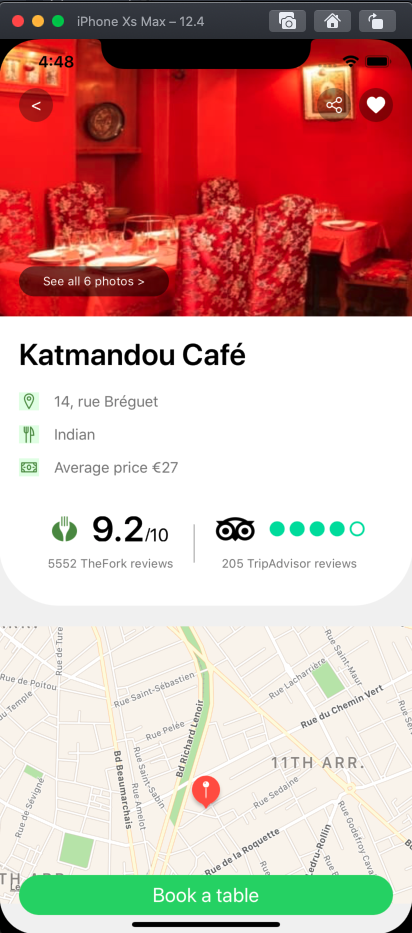
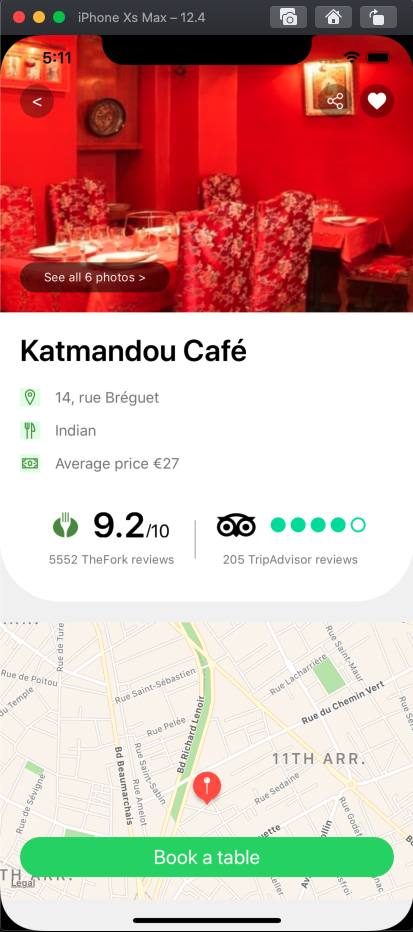
fixed bottom button constraint

diff --git a/Restaurant/Controllers/RestaurantViewController.swift b/Restaurant/Controllers/RestaurantViewController.swift
@@ -138,7 +138,7 @@ private extension RestaurantViewController {
             bookButton.heightAnchor.constraint(equalToConstant: 40),
             bookButton.leadingAnchor.constraint(equalTo: view.leadingAnchor, constant: 20),
             bookButton.trailingAnchor.constraint(equalTo: view.trailingAnchor, constant: -20),
-            bookButton.bottomAnchor.constraint(equalTo: view.bottomAnchor, constant: -20),
+            bookButton.bottomAnchor.constraint(equalTo: view.safeAreaLayoutGuide.bottomAnchor, constant: -20),
         ])
     }
     
